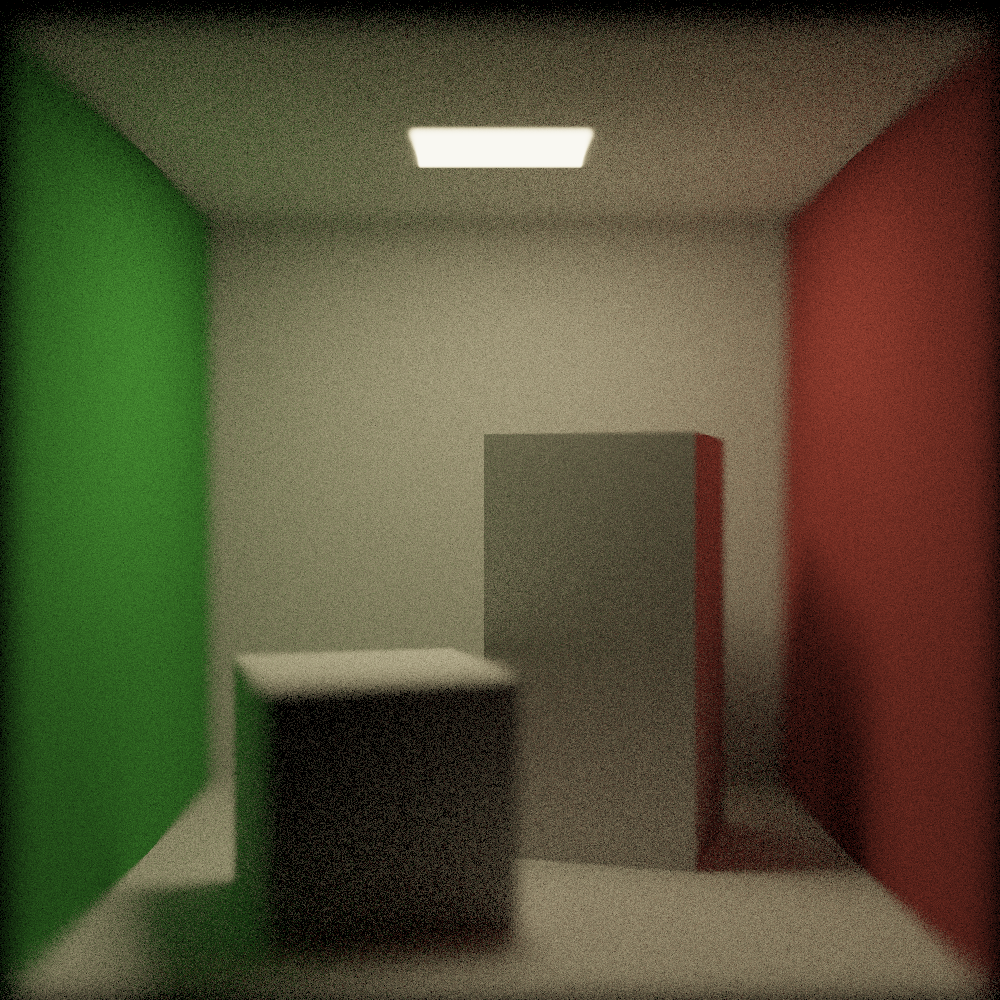
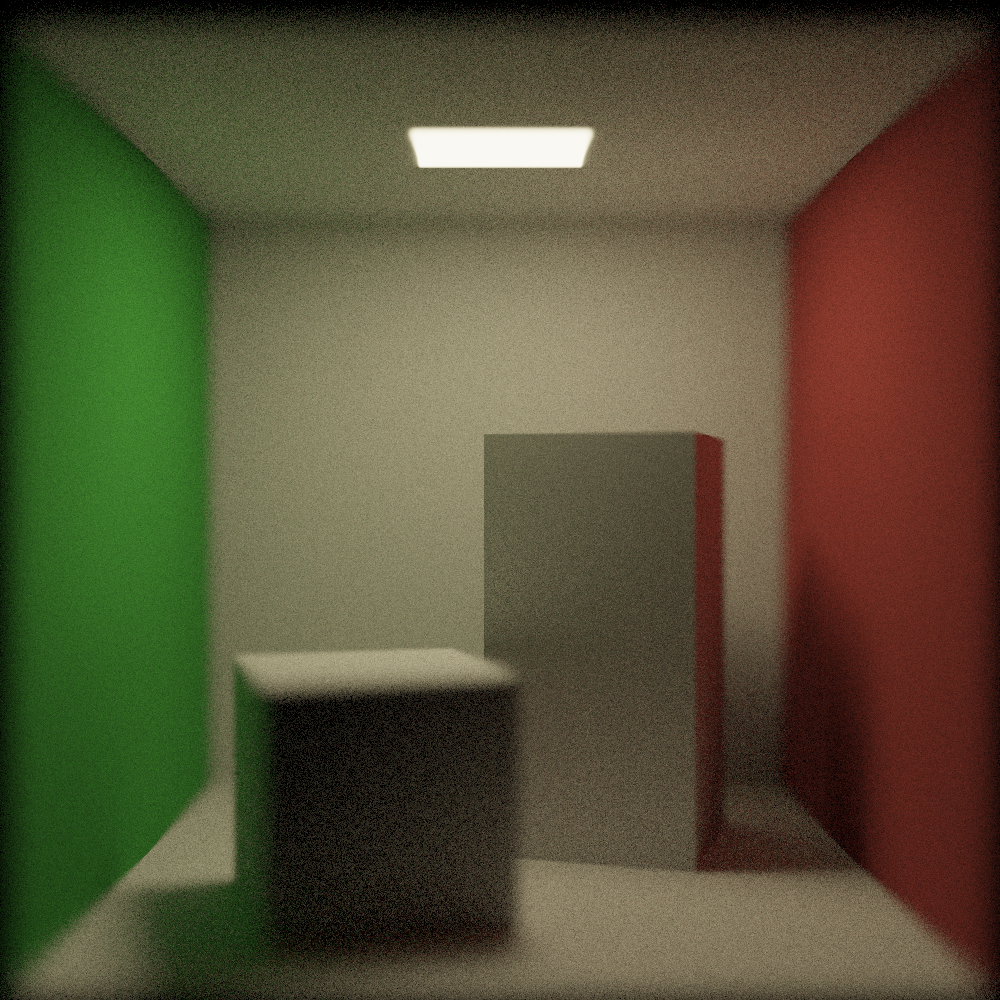
ReadME update

diff --git a/README.md b/README.md
@@ -1,4 +1,4 @@
 Personal project Path Tracing using only Winit, OpenCL, and Rust.
 example photos in pathTracedProgress 
 most current rendering is 
-![CornellB71](https://github.com/12465132/ROCL/blob/main/pathTracingProgress%2FCornellB71.PNG)
+![CornellB71](https://github.com/12465132/ROCL/blob/main/pathTracingProgress%2Ftest3.PNG)
